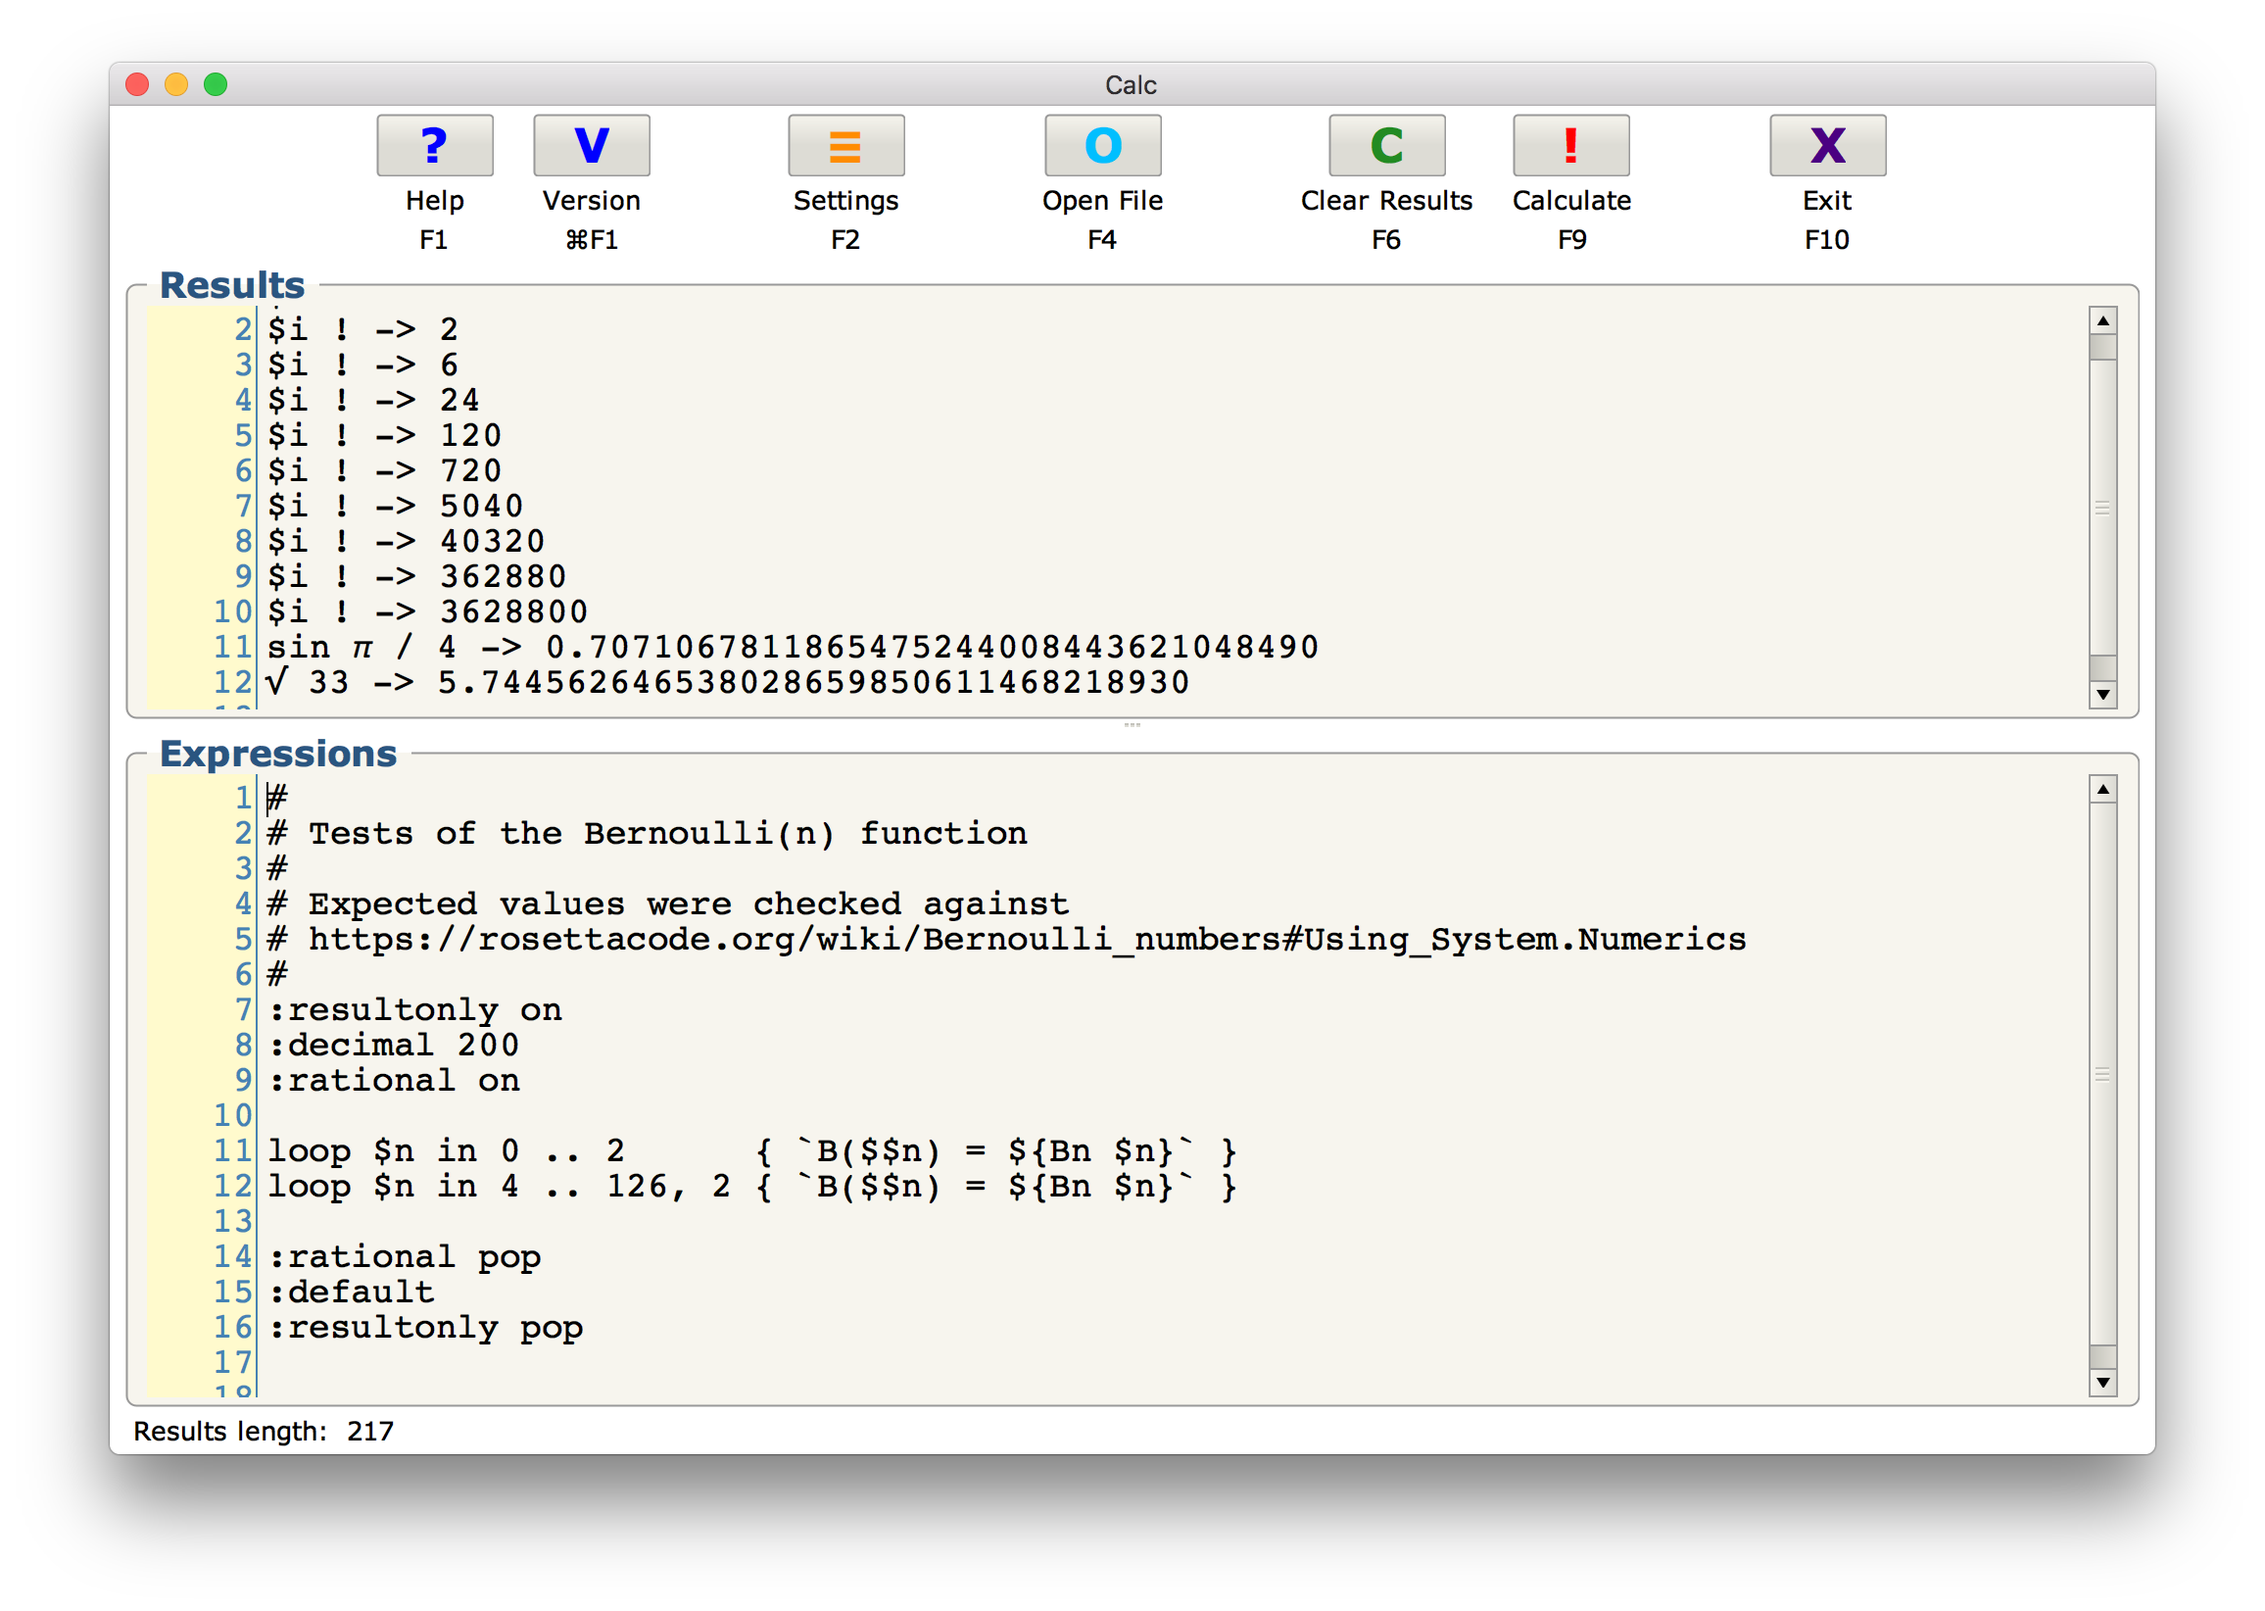
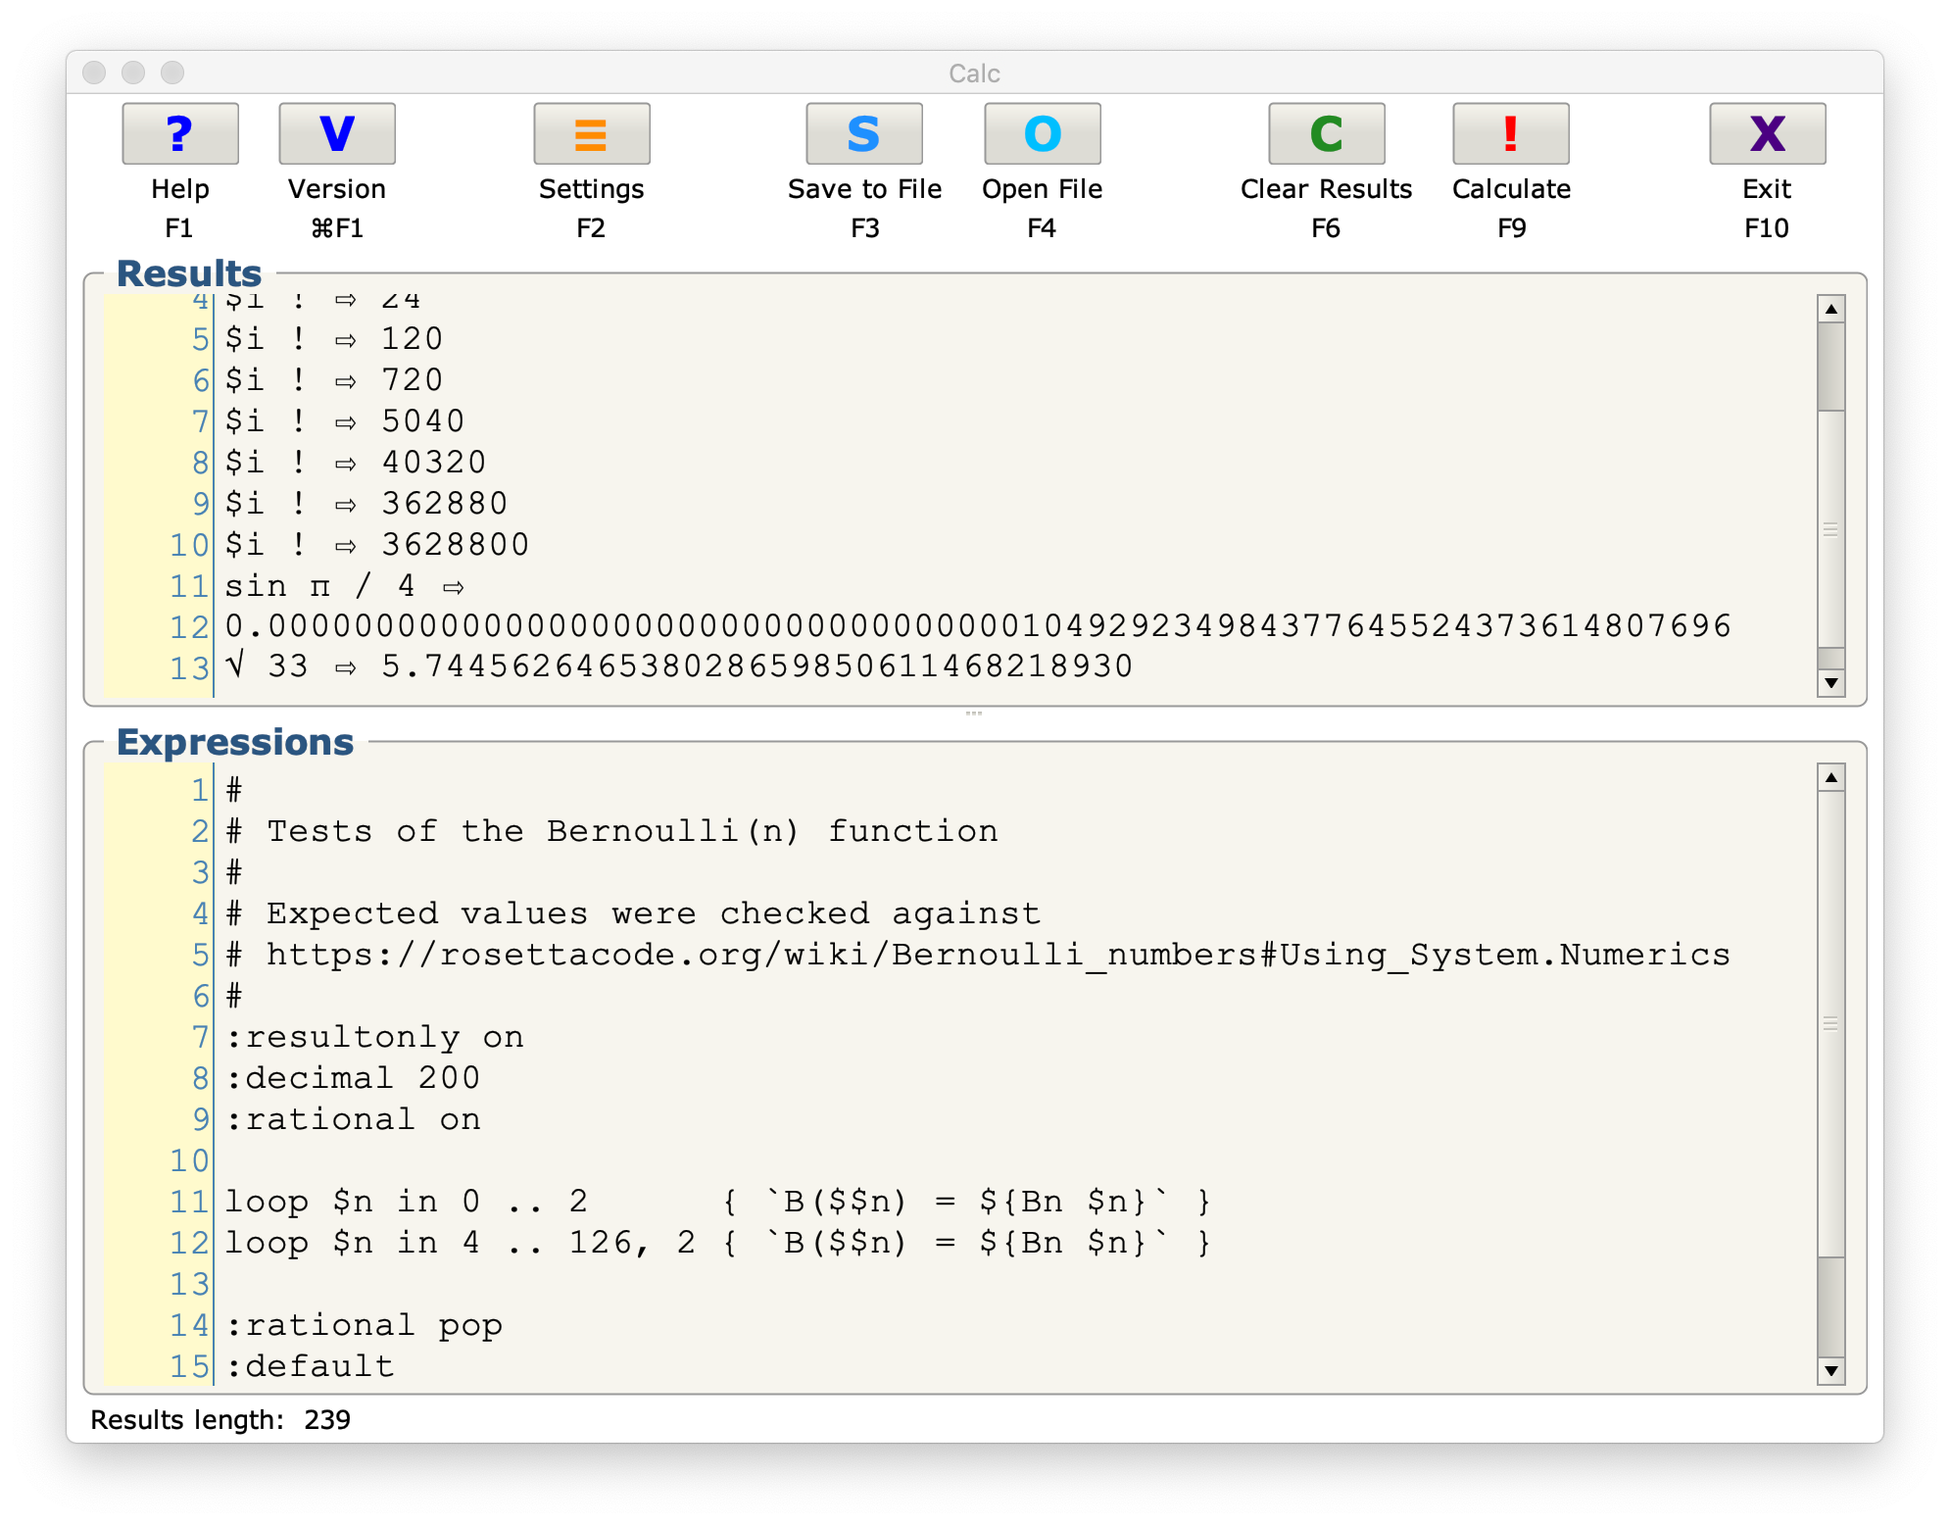
#25: Add a "Save" button to Calc GUI; update help screenshots.

diff --git a/java/info/rlwhitcomb/calc/CalcObjectVisitor.java b/java/info/rlwhitcomb/calc/CalcObjectVisitor.java
@@ -346,6 +346,8 @@
  *	    Implement ":save" directive, with charset selection for it and ":open". Rename some
  *	    static final values as the constants they really are. Use LinkedHashMap for variables
  *	    so that the key sets list in the order they were defined.
+ *	05-Oct-2021 (rlwhitcomb)
+ *	    Split out "saveVariables" method to be called from GUI button code.
  */
 package info.rlwhitcomb.calc;
 
@@ -360,6 +362,7 @@ import java.nio.charset.IllegalCharsetNameException;
 import java.nio.charset.StandardCharsets;
 import java.nio.charset.UnsupportedCharsetException;
 import java.nio.file.Files;
+import java.nio.file.Path;
 import java.nio.file.Paths;
 import java.time.DayOfWeek;
 import java.time.LocalDate;
@@ -979,12 +982,10 @@ public class CalcObjectVisitor extends CalcBaseVisitor<Object>
 	    }
 	}
 
-	@Override
-	public Object visitSaveDirective(CalcParser.SaveDirectiveContext ctx) {
-	    String path = getStringValue(ctx.expr(0), false, false, false);
-	    Charset charset = getCharsetValue(ctx.expr(1), true);
-
-	    try (BufferedWriter writer = Files.newBufferedWriter(Paths.get(path), charset)) {
+	public void saveVariables(final Path path, final Charset charset)
+		throws IOException
+	{
+	    try (BufferedWriter writer = Files.newBufferedWriter(path, charset == null ? DEFAULT_CHARSET : charset)) {
 		// Note: using LinkedHashMap for "variables" means the key set will be in the order
 		// they were defined, which is important here, since we must be able to read back
 		// the saved file and have the values computed to be the same as they are now.
@@ -996,6 +997,16 @@ public class CalcObjectVisitor extends CalcBaseVisitor<Object>
 			writer.write(String.format("%1$s = %2$s", key, toStringValue(this, value, settings.separatorMode)));
 		    writer.newLine();
 		}
+	    }
+	}
+
+	@Override
+	public Object visitSaveDirective(CalcParser.SaveDirectiveContext ctx) {
+	    String path = getStringValue(ctx.expr(0), false, false, false);
+	    Charset charset = getCharsetValue(ctx.expr(1), true);
+
+	    try {
+		saveVariables(Paths.get(path), charset);
 	    }
 	    catch (IOException ioe) {
 		throw new CalcExprException(ctx, "%calc#ioError", ExceptionUtil.toString(ioe));

diff --git a/java/info/rlwhitcomb/calc/Calc.java b/java/info/rlwhitcomb/calc/Calc.java
@@ -196,6 +196,8 @@
  *	    Tweak one message from Antlr to match our colored version of it.
  *	05-Oct-2021 (rlwhitcomb)
  *	    Add charset spec to "getFileContents" and "readFile".
+ *	05-Oct-2021 (rlwhitcomb)
+ *	    Add Save function to GUI.
  */
 package info.rlwhitcomb.calc;
 
@@ -619,6 +621,7 @@ public class Calc
 		Action.addNamedAction("help",      new HelpAction());
 		Action.addNamedAction("version",   new VersionAction());
 		Action.addNamedAction("settings",  new SettingsAction());
+		Action.addNamedAction("save",      new SaveAction());
 		Action.addNamedAction("open",      new OpenAction());
 		Action.addNamedAction("clear",     new ClearAction());
 		Action.addNamedAction("calculate", new CalculateAction());
@@ -949,6 +952,42 @@ public class Calc
 				inputTextPane.setText(EMPTY_TEXT);
 				requestFocus(inputTextPane);
 			    });
+			}
+		    });
+		}
+	}
+
+	private class SaveAction extends Action
+	{
+		@Override
+		public void perform(Component source) {
+		    if (inputDirectory == null) {
+			if (rootDirectory == null) {
+			    rootDirectory = new File("./");
+			}
+		    }
+		    else if (rootDirectory == null) {
+			rootDirectory = inputDirectory;
+		    }
+		    try {
+			rootDirectory = rootDirectory.getCanonicalFile();
+		    }
+		    catch (IOException ioe) {
+			// just leave root directory as-is
+		    }
+		    final FileBrowserSheet browser =
+			new FileBrowserSheet(FileBrowserSheet.Mode.SAVE_AS, rootDirectory.getPath());
+		    browser.open(mainWindow, sheet -> {
+			if (!sheet.getResult())
+			    return;
+			File selectedFile = browser.getSelectedFile();
+			rootDirectory = browser.getRootDirectory();
+			try {
+			    visitor.saveVariables(selectedFile.toPath(), null);
+			    Alert.alert(MessageType.INFO, Intl.formatString("saveSuccess", selectedFile.getPath()), Intl.getString("save"), null, mainWindow, null);
+			}
+			catch (IOException ioe) {
+			    Alert.alert(MessageType.ERROR, ExceptionUtil.toString(ioe), ioe.getClass().getSimpleName(), null, mainWindow, null);
 			}
 		    });
 		}
